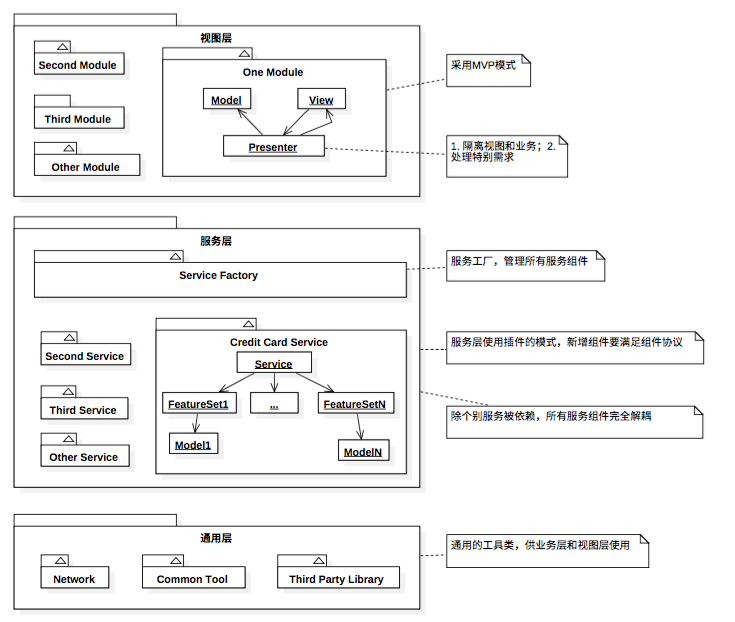
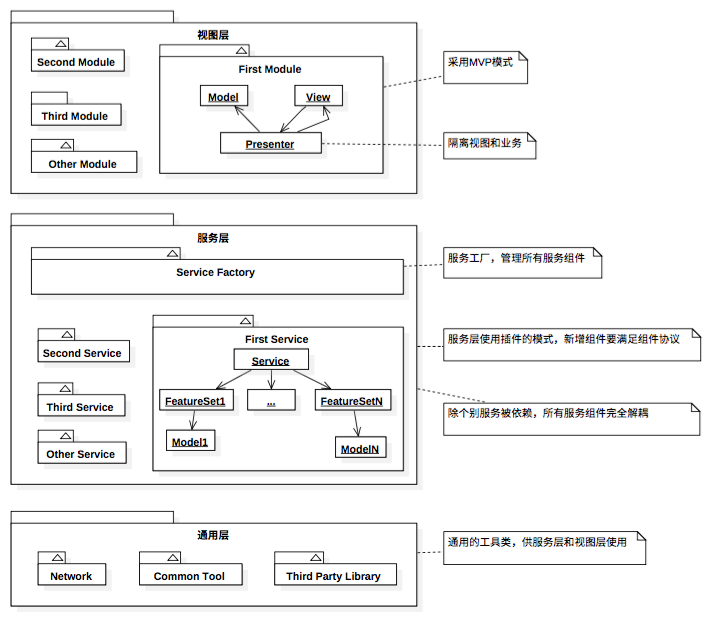
update

Changed region(s): [[0.0, 0.0, 0.9846, 0.7994], [0.0, 0.7994, 0.9231, 0.9838]]

diff --git a/App开发框架.md b/App开发框架.md
@@ -1,14 +1,14 @@
 # APP开发框架
 
-本文主要介绍APP开发框架，包含从UI到底层的整个框架。如果你准备做一个新APP，此框架可以让你快速入手，如果你是准备重构APP代码，此框架可以带给你重构的方法。
+本文主要介绍一种APP开发框架，包含从UI到底层的整个框架。如果你准备做一个新APP，此框架可以让你快速入手，如果你是准备重构APP代码，此框架可以带给你一些重构的方法。
 
-先上代码：
+代码地址：
 [iOS框架代码](https://github.com/hamilyjing/JJAppFramework/tree/master/JJiOSFramework)
 [Android框架代码](https://github.com/hamilyjing/JJAppFramework/tree/master/JJAndroidFramework)
 
 ## 框架简介
 
-![image](file:///Users/JJ/Desktop/JJ/Github/JJAppFramework/APP开发框架.png)
+![image](file:///Users/hamilyjing/Desktop/JJ/Github/JJAppFramework/APP开发框架.png)
 
 1. 通用层
 
@@ -16,24 +16,48 @@
 	
 2. 服务层
 	
-	服务层由服务工厂管理所有服务组件，对外提供装载和卸载服务接口。服务组件采用插件模式，满足特定协议（代码中新增组件需要继承JJService，并且实现serviceName方法）的组件就可以放到服务层。服务组件处理业务逻辑，组件之间不要有任何依赖关系（除少数组件被依赖，如登录服务，配置服务等），也不要有任何UI代码。服务组件由不同的功能集合（FeatureSet）组成，具体的业务逻辑写在每个功能集合中，数据模型也是保存在功能集合中。
+	服务层由服务工厂管理所有服务组件，对外提供装载和卸载服务接口。服务组件采用插件模式，满足特定协议（代码中新增组件需要继承JJService，并且实现serviceName方法）的组件就可以放到服务层。服务组件处理业务逻辑，组件之间不要有任何依赖关系（除少数组件被依赖，如登录服务，其他组件需要登录信息），也不要有任何UI代码。服务组件由不同的功能集合（FeatureSet）组成，具体的业务逻辑写在每个功能集合中，数据模型也是保存在功能集合中。
 	
 3. 视图层
 
-	视图层使用MVP模式开发每个功能模块，MVP模式达到视图和业务逻辑分离。对于相同的模块，在不同设备上，View可以不同，Presenter是可以复用，Presenter提供业务接口给View使用，Presenter调用不同的服务组件来满足View的需求，并将服务组件返回的结果回调给View。除非View的需求需要在UI层创建新的模型，其他可以直接使用服务组件中的业务数据模型。
+	视图层使用MVP模式开发每个功能模块，MVP模式达到视图和业务逻辑分离。对于相同的模块，在不同设备上，View可以不同，Presenter是可以复用。Presenter提供业务接口给View使用，Presenter调用不同的服务组件来满足View的需求，并将服务组件返回的结果回调给View。除非View的需求需要在UI层创建新的模型，其他情况可以直接使用服务组件中的数据模型。
 
 ## 框架详解
 
-### 服务组件的装载和卸载
+#### 数据回调方式
 
-### 网路
+有三种方式可供选择，代理、回调函数和通知。代理是一对一（也可以做到一对多，只需要做一个代理容器即可），回调函数是一对一，通知是一对多，因此好的框架需要提供一对一和一对多两种回调方式，并提供统一的回调接口（详见JJService中callback函数）。
 
-### 数据存储
+iOS框架提供了3种回调方式，Android框架提供回调函数和通知。
 
-### 数据回调
+#### 服务组件的装载和卸载
 
-### 代码自动生成
+使用者使用某一项服务组件时，服务工厂查找是否以装载过此组件，如果是，则将此组件返回给使用者，不是，则通过服务组件名称装载此组件。
 
-### 发布服务
+不再使用的服务组件就需要卸载，卸载的方式有两种，一种是主动卸载（使用者调用服务工厂卸载API），另一种是自动卸载，每当装载新的服务组件前，询问当前已装载的所有服务组件是否需要卸载，当服务组件的代理个数为0且请求完成个数为0时才会被卸载。
 
-	
+#### 网路
+
+框架实现了HTTP请求，iOS使用第三方库YTKNetwork，并对其进行了扩展（详见JJRequest），其中加入了网络应答数据自动转化为模型，模型的存储，以及对模型的操作。Android使用第三方库android-async-http，并参考YTKNetwork设计理念开发网络基础类（详见JJRequest）。
+
+#### 数据存储
+
+框架将HTTP应答数据自动映射为数据模型，iOS使用第三方库YYModel，Android使用第三方库fastJSON。
+
+框架采用对象序列化后存储在文件中，没有采用数据库的方式。一是模型的修改需要需要修改数据库表，二是使用数据库达到数据流到模型映射的自动化难度较大，文件存储就不存在这些问题，而且对象的增删查效率可以满足大部分APP，其实无非多了一到两次对象的存储过程。
+
+## 其他
+
+#### 代码规范
+
+一个好的开发框架必然有一套代码规范准则，开发者必须严格遵守。好的代码规范可以提高review效率，降低维护成本，降低使用者学习成本。
+
+有了规范，我们可以写一些代码生成插件，提高开发效率。
+
+#### 发布服务
+
+由于服务层严格按照高内聚低耦合的规则，很容易发布一个或几个组件，其中发布方式有以下几种：
+
+1. 组件单独发布
+2. 组件+Presenter一起发布，使用者需要写视图
+3. 组件+UI一起发布，使用者只需要调用我们的视图即可

diff --git a/README.md b/README.md
@@ -1,3 +1,63 @@
-# JJAPPFramework
+# APP开发框架
 
+本文主要介绍一种APP开发框架，包含从UI到底层的整个框架。如果你准备做一个新APP，此框架可以让你快速入手，如果你是准备重构APP代码，此框架可以带给你一些重构的方法。
 
+代码地址：
+[iOS框架代码](https://github.com/hamilyjing/JJAppFramework/tree/master/JJiOSFramework)
+[Android框架代码](https://github.com/hamilyjing/JJAppFramework/tree/master/JJAndroidFramework)
+
+## 框架简介
+
+![image](file:///Users/hamilyjing/Desktop/JJ/Github/JJAppFramework/APP开发框架.png)
+
+1. 通用层
+
+	通用层包含第三方库和通用工具，这些工具和业务无任何关系，并且可以单独拿出来放到任何工程中。iOS可以使用CocoaPods管理第三方库。
+	
+2. 服务层
+	
+	服务层由服务工厂管理所有服务组件，对外提供装载和卸载服务接口。服务组件采用插件模式，满足特定协议（代码中新增组件需要继承JJService，并且实现serviceName方法）的组件就可以放到服务层。服务组件处理业务逻辑，组件之间不要有任何依赖关系（除少数组件被依赖，如登录服务，其他组件需要登录信息），也不要有任何UI代码。服务组件由不同的功能集合（FeatureSet）组成，具体的业务逻辑写在每个功能集合中，数据模型也是保存在功能集合中。
+	
+3. 视图层
+
+	视图层使用MVP模式开发每个功能模块，MVP模式达到视图和业务逻辑分离。对于相同的模块，在不同设备上，View可以不同，Presenter是可以复用。Presenter提供业务接口给View使用，Presenter调用不同的服务组件来满足View的需求，并将服务组件返回的结果回调给View。除非View的需求需要在UI层创建新的模型，其他情况可以直接使用服务组件中的数据模型。
+
+## 框架详解
+
+#### 数据回调方式
+
+有三种方式可供选择，代理、回调函数和通知。代理是一对一（也可以做到一对多，只需要做一个代理容器即可），回调函数是一对一，通知是一对多，因此好的框架需要提供一对一和一对多两种回调方式，并提供统一的回调接口（详见JJService中callback函数）。
+
+iOS框架提供了3种回调方式，Android框架提供回调函数和通知。
+
+#### 服务组件的装载和卸载
+
+使用者使用某一项服务组件时，服务工厂查找是否以装载过此组件，如果是，则将此组件返回给使用者，不是，则通过服务组件名称装载此组件。
+
+不再使用的服务组件就需要卸载，卸载的方式有两种，一种是主动卸载（使用者调用服务工厂卸载API），另一种是自动卸载，每当装载新的服务组件前，询问当前已装载的所有服务组件是否需要卸载，当服务组件的代理个数为0且请求完成个数为0时才会被卸载。
+
+#### 网路
+
+框架实现了HTTP请求，iOS使用第三方库YTKNetwork，并对其进行了扩展（详见JJRequest），其中加入了网络应答数据自动转化为模型，模型的存储，以及对模型的操作。Android使用第三方库android-async-http，并参考YTKNetwork设计理念开发网络基础类（详见JJRequest）。
+
+#### 数据存储
+
+框架将HTTP应答数据自动映射为数据模型，iOS使用第三方库YYModel，Android使用第三方库fastJSON。
+
+框架采用对象序列化后存储在文件中，没有采用数据库的方式。一是模型的修改需要需要修改数据库表，二是使用数据库达到数据流到模型映射的自动化难度较大，文件存储就不存在这些问题，而且对象的增删查效率可以满足大部分APP，其实无非多了一到两次对象的存储过程。
+
+## 其他
+
+#### 代码规范
+
+一个好的开发框架必然有一套代码规范准则，开发者必须严格遵守。好的代码规范可以提高review效率，降低维护成本，降低使用者学习成本。
+
+有了规范，我们可以写一些代码生成插件，提高开发效率。
+
+#### 发布服务
+
+由于服务层严格按照高内聚低耦合的规则，很容易发布一个或几个组件，其中发布方式有以下几种：
+
+1. 组件单独发布
+2. 组件+Presenter一起发布，使用者需要写视图
+3. 组件+UI一起发布，使用者只需要调用我们的视图即可
